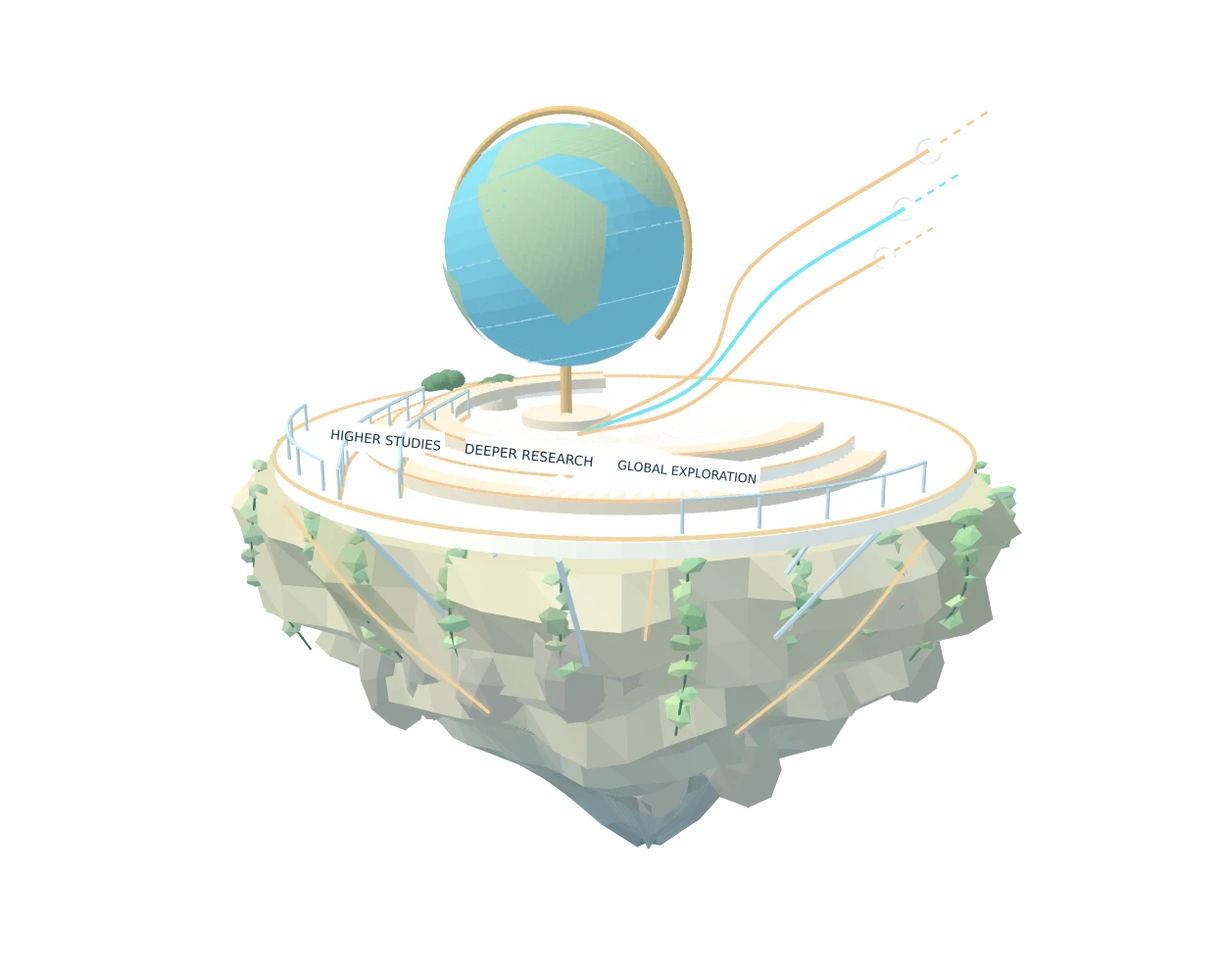
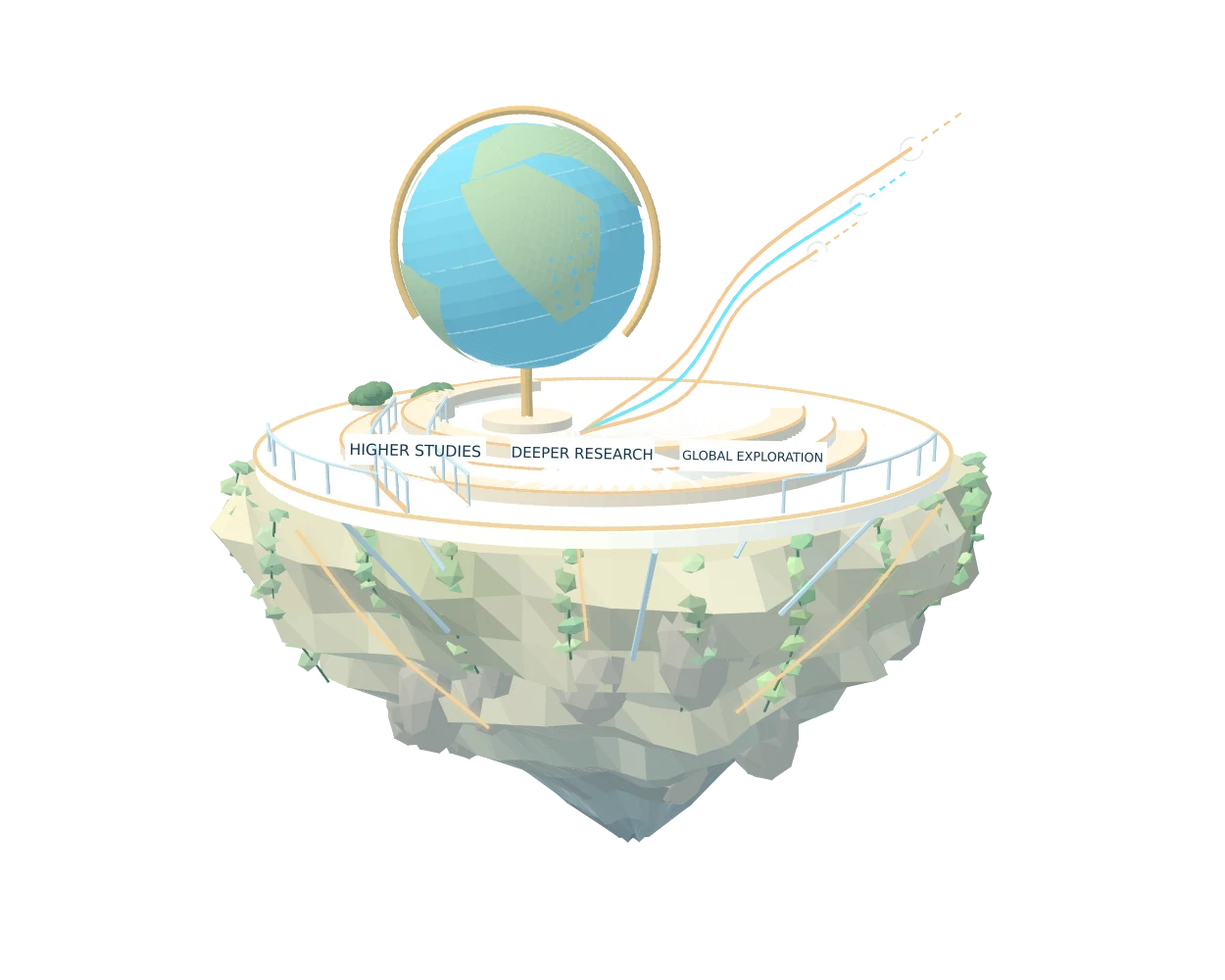
Refine world arrivals, cinematic travel, and inspection controls

Changed region(s): [[0.156, 0.093, 0.8424, 0.868], [0.7176, 0.155, 0.7488, 0.186]]

diff --git a/components/SkyScene.tsx b/components/SkyScene.tsx
@@ -9,8 +9,8 @@ import {createCloudTexture,buildSkyEnvironment} from './SkyEnvironment';
 import {buildSkyRoutes} from './SkyRoutes';
 import {batchWorld} from './SceneBatch';
 import {frameObjects} from './SceneFraming';
-import {captureView,syncOrbitView} from './CameraNavigation';
-type Props={reduced:boolean;active:string;inspect:boolean;onReady:()=>void;onFail:()=>void;onProject:(id:string)=>void;onWorld:(id:string)=>void};
+import {captureView,syncOrbitView,createCameraFlight} from './CameraNavigation';
+type Props={reduced:boolean;active:string;inspect:boolean;resetView:number;onTravel:(traveling:boolean)=>void;onReady:()=>void;onFail:()=>void;onProject:(id:string)=>void;onWorld:(id:string)=>void};
 export default function SkyScene(props:Props){
  const canvas=useRef<HTMLCanvasElement>(null),labels=useRef<HTMLDivElement>(null),current=useRef(props);current.current=props;
  useEffect(()=>{if(!canvas.current)return;let renderer:T.WebGLRenderer;try{renderer=new T.WebGLRenderer({canvas:canvas.current,alpha:true,antialias:true,powerPreference:'high-performance'});}catch{current.current.onFail();return;}
@@ -29,7 +29,7 @@ export default function SkyScene(props:Props){
  destinations.forEach((d,i)=>{
   const g=new T.Group();g.position.set(...d.p as [number,number,number]);g.userData={world:d.id,baseY:d.p[1]};scene.add(g);groups.push(g);clickables.push(g);
   buildFloatingFoundation(g,d.r,d.squash,i*110+4);
-  const built=builders[d.id](g);finishWorld(g,d.id,d.r);batchWorld(g,built);architectureAnimations.push(...built.animations);clickables.push(...built.exhibits);
+  const built=builders[d.id](g);finishWorld(g,d.id,d.r);batchWorld(g,built);architectureAnimations.push(...built.animations);
  });
  const transit=buildSkyRoutes(scene),atmosphere=buildSkyEnvironment(scene,createCloudTexture(),limited());
  function updateLighting(){
@@ -52,7 +52,7 @@ export default function SkyScene(props:Props){
  const frameCache=new Map<string,ReturnType<typeof frameObjects>>();
  function waypoint(){const id=current.current.active,key=id+':'+(rect.width/rect.height).toFixed(3);let view=frameCache.get(key);if(!view){view=frameObjects(id==='home'?groups:groups.filter(g=>g.userData.world===id),id,rect.width/rect.height);frameCache.set(key,view)}return view}
  const overview=waypoint();const target=new T.Vector3(overview.lx,overview.ly,overview.lz);syncOrbitView(camera,controls,overview);
- let dirty=true,lastWorld='',lastInspect=false;
+ let dirty=true,lastWorld='',lastInspect=false,lastReset=props.resetView,needsFraming=false;
  let markerObstacles:{left:number;top:number;right:number;bottom:number}[]=[];
  const measureToolbar=()=>{markerObstacles=Array.from(document.querySelectorAll('.scene-heading,.scene-controls,.scene-destinations')).map(el=>{const r=el.getBoundingClientRect();return {left:r.left-rect.left-8,top:r.top-rect.top-8,right:r.right-rect.left+8,bottom:r.bottom-rect.top+8}})};
  let scrollTween:gsap.core.Tween|undefined;
@@ -64,38 +64,48 @@ export default function SkyScene(props:Props){
   el.append(number,name);el.setAttribute('aria-label',`Visit ${d.short}: ${d.name}`);el.onclick=()=>current.current.onWorld(d.id);labels.current?.appendChild(el);return el;
  });
 
- let pointerX=0,pointerY=0;
- const onPointer=(e:PointerEvent)=>{pointerX=((e.clientX-rect.left)/rect.width-.5)*.45;pointerY=((e.clientY-rect.top)/rect.height-.5)*.2};
+ let pointerX=0,pointerY=0,desiredX=0,desiredY=0,hoverX=0,hoverY=0,hoverPending=false,pointerInside=false;
+ const onPointer=(e:PointerEvent)=>{pointerInside=true;hoverX=e.clientX;hoverY=e.clientY;hoverPending=true;if(e.pointerType!=='touch'){desiredX=((e.clientX-rect.left)/rect.width-.5)*.45;desiredY=((e.clientY-rect.top)/rect.height-.5)*.2}dirty=true};
+ const onLeave=()=>{pointerInside=false;desiredX=desiredY=0;canvas.current!.style.cursor='';dirty=true};
+ canvas.current.addEventListener('pointerleave',onLeave);
  canvas.current.addEventListener('pointermove',onPointer,{passive:true});
  const ray=new T.Raycaster(),ndc=new T.Vector2();let startX=0,startY=0;
  const onDown=(e:PointerEvent)=>{startX=e.clientX;startY=e.clientY};
- const onClick=(e:MouseEvent)=>{
-  if(Math.hypot(e.clientX-startX,e.clientY-startY)>6)return;
-  ndc.set((e.clientX-rect.left)/rect.width*2-1,-(e.clientY-rect.top)/rect.height*2+1);ray.setFromCamera(ndc,camera);
+ function pick(x:number,y:number){
+  ndc.set((x-rect.left)/rect.width*2-1,-(y-rect.top)/rect.height*2+1);ray.setFromCamera(ndc,camera);
   const hit=ray.intersectObjects(clickables,true).find(hit=>{let p:T.Object3D|null=hit.object;while(p){if(!p.visible)return false;p=p.parent}return true});
-  if(hit){let o:T.Object3D|null=hit.object;while(o&&!o.userData.project&&!o.userData.world)o=o.parent;if(o?.userData.project)current.current.onProject(o.userData.project);else if(o?.userData.world&&current.current.active==='home')current.current.onWorld(o.userData.world)}
+  let object:T.Object3D|null=hit?.object??null;while(object&&!object.userData.project&&!object.userData.world)object=object.parent;
+  return object?.userData.project?{project:object.userData.project}:object?.userData.world&&current.current.active==='home'?{world:object.userData.world}:null;
+ }
+ const onClick=(e:MouseEvent)=>{
+  if(Math.hypot(e.clientX-startX,e.clientY-startY)>6||scrollTween?.isActive())return;
+  const hit=pick(e.clientX,e.clientY);if(hit?.project)current.current.onProject(hit.project);else if(hit?.world)current.current.onWorld(hit.world);
  };
  canvas.current.addEventListener('pointerdown',onDown);canvas.current.addEventListener('click',onClick);
  let raf=0,last=0,elapsed=0,lastReduced=false;const v=new T.Vector3(),clock=new T.Clock();
  const wake=()=>{dirty=true};controls.addEventListener('change',wake);
- const onOrbitStart=()=>{scrollTween?.kill();dirty=true};controls.addEventListener('start',onOrbitStart);
+ const onOrbitStart=()=>{scrollTween?.kill();current.current.onTravel(false);dirty=true};controls.addEventListener('start',onOrbitStart);
  function frame(time:number){
   raf=requestAnimationFrame(frame);
   if(document.hidden||time-last<1000/(limited()?30:45))return;
   const dt=Math.min(clock.getDelta(),.05);last=time;
   const reduced=current.current.reduced;
   const world=current.current.active,inspect=current.current.inspect;
-  if(world!==lastWorld||inspect!==lastInspect){
+  if(world!==lastWorld||inspect!==lastInspect||lastReset!==current.current.resetView||needsFraming){
    rect=viewport();camera.aspect=rect.width/rect.height;camera.updateProjectionMatrix();renderer.setSize(rect.width,rect.height,false);
-   measureToolbar();updateLighting();scrollTween?.kill();const next=waypoint();
-   const origin=captureView(camera,lastInspect?controls.target:target);if(!inspect&&!reduced){origin.x-=pointerX;origin.y-=pointerY}Object.assign(flight,origin);
-   if(reduced||!reportedReady){Object.assign(flight,next);syncOrbitView(camera,controls,next)}
-   else{syncOrbitView(camera,controls,origin);scrollTween=gsap.to(flight,{...next,duration:1.1,ease:'power2.inOut',onUpdate:wake})}
-   controls.enabled=inspect;canvas.current!.style.touchAction=inspect?'none':'pan-y';lastWorld=world;lastInspect=inspect;dirty=true;
+   measureToolbar();updateLighting();scrollTween?.kill();const next={...waypoint()};
+   const origin=captureView(camera,lastInspect?controls.target:target);pointerX=pointerY=desiredX=desiredY=0;Object.assign(flight,origin);
+   const enteringInspection=inspect&&!lastInspect&&world===lastWorld&&!needsFraming&&lastReset===current.current.resetView;
+   if(enteringInspection)Object.assign(next,origin);
+   const sameView=Object.keys(next).every(key=>Math.abs(next[key as keyof typeof next]-origin[key as keyof typeof origin])<.001);
+   if(reduced||!reportedReady||enteringInspection||sameView){Object.assign(flight,next);syncOrbitView(camera,controls,next);current.current.onTravel(false)}
+   else{syncOrbitView(camera,controls,origin);const route=createCameraFlight(origin,next),progress={value:0};current.current.onTravel(true);scrollTween=gsap.to(progress,{value:1,duration:route.duration,ease:'power2.inOut',onUpdate:()=>{Object.assign(flight,route.sample(progress.value));wake()},onComplete:()=>{Object.assign(flight,next);if(inspect)syncOrbitView(camera,controls,next);hoverPending=true;current.current.onTravel(false);wake()}})}
+   controls.enabled=inspect;canvas.current!.style.touchAction=inspect?'none':'pan-y';lastWorld=world;lastInspect=inspect;lastReset=current.current.resetView;needsFraming=false;dirty=true;
   }
-  if(reduced!==lastReduced){if(reduced){const next=inspect&&!scrollTween?.isActive()?captureView(camera,controls.target):waypoint();scrollTween?.kill();Object.assign(flight,next);syncOrbitView(camera,controls,flight)}dirty=true;lastReduced=reduced}
+  if(reduced!==lastReduced){if(reduced){const next=inspect&&!scrollTween?.isActive()?captureView(camera,controls.target):waypoint();scrollTween?.kill();Object.assign(flight,next);pointerX=pointerY=desiredX=desiredY=0;syncOrbitView(camera,controls,flight);current.current.onTravel(false)}dirty=true;lastReduced=reduced}
   if(reduced&&!dirty)return;
   if(!reduced)elapsed+=dt;
+  const parallax=1-Math.exp(-dt*7),canParallax=!reduced&&!inspect&&!scrollTween?.isActive();pointerX+=((canParallax?desiredX:0)-pointerX)*parallax;pointerY+=((canParallax?desiredY:0)-pointerY)*parallax;
   if(inspect){if(scrollTween?.isActive()){camera.position.set(flight.x,flight.y,flight.z);controls.target.set(flight.lx,flight.ly,flight.lz)}controls.update();}
   else{camera.position.set(flight.x+(reduced?0:pointerX),flight.y+(reduced?0:pointerY),flight.z);target.set(flight.lx,flight.ly,flight.lz);camera.lookAt(target);}
   // Follow the actual camera distance so haze never jumps at a chapter boundary.
@@ -103,7 +113,9 @@ export default function SkyScene(props:Props){
   groups.forEach((g,i)=>{g.position.y=g.userData.baseY+(reduced?0:Math.sin(elapsed*.35+i)*.07)});
   if(!reduced)architectureAnimations.forEach(a=>a.object.rotation[a.axis]+=dt*a.speed);
   atmosphere.update(elapsed,reduced);transit.update(elapsed,reduced);
-  try{renderer.render(scene,camera)}catch{current.current.onFail();return}dirty=false;if(!reportedReady){reportedReady=true;current.current.onReady()}
+  try{renderer.render(scene,camera)}catch{current.current.onFail();return}dirty=false;
+  if(pointerInside&&(hoverPending||scrollTween?.isActive())){canvas.current!.style.cursor=scrollTween?.isActive()?'':pick(hoverX,hoverY)?'pointer':'';hoverPending=false}
+  if(!reportedReady){reportedReady=true;current.current.onReady()}
   const markers=placeMarkers(destinations.map((d,i)=>{
    groups[i].localToWorld(v.set(0,-d.r*.18,d.r*d.squash*.88)).project(camera);
    return {x:Math.max(!inspect&&!mobile?rect.width*.12:25,(v.x*.5+.5)*rect.width),y:(-v.y*.5+.5)*rect.height,visible:world==='home'&&v.z>-1&&v.z<1&&Math.abs(v.x)<.96&&Math.abs(v.y)<.92};
@@ -114,13 +126,13 @@ export default function SkyScene(props:Props){
   });
 
  }
- const resize=()=>{mobile=innerWidth<=960;rect=viewport();camera.aspect=rect.width/rect.height;camera.updateProjectionMatrix();renderer.setPixelRatio(Math.min(devicePixelRatio,limited()?1.25:1.65));renderer.setSize(rect.width,rect.height,false);atmosphere.setLimited(limited());updateLighting();lastWorld='';dirty=true};
+ const resize=()=>{mobile=innerWidth<=960;rect=viewport();camera.aspect=rect.width/rect.height;camera.updateProjectionMatrix();renderer.setPixelRatio(Math.min(devicePixelRatio,limited()?1.25:1.65));renderer.setSize(rect.width,rect.height,false);atmosphere.setLimited(limited());updateLighting();measureToolbar();if(!current.current.inspect)needsFraming=true;dirty=true};
  window.addEventListener('resize',resize);const canvasNode=canvas.current;
  const ro=new ResizeObserver(resize);ro.observe(canvasNode);
  const toolbarObserver=new ResizeObserver(()=>{measureToolbar();dirty=true});const toolbar=document.querySelector('.scene-tools');if(toolbar)toolbarObserver.observe(toolbar);
  const contextLost=(e:Event)=>{e.preventDefault();current.current.onFail()};
  canvasNode.addEventListener('webglcontextlost',contextLost);raf=requestAnimationFrame(frame);
- return()=>{alive=false;cancelAnimationFrame(raf);scrollTween?.kill();ro.disconnect();toolbarObserver.disconnect();controls.removeEventListener('change',wake);controls.removeEventListener('start',onOrbitStart);controls.dispose();window.removeEventListener('resize',resize);canvasNode.removeEventListener('pointermove',onPointer);canvasNode.removeEventListener('pointerdown',onDown);canvasNode.removeEventListener('click',onClick);canvasNode.removeEventListener('webglcontextlost',contextLost);labelElements.forEach(e=>e.remove());
+ return()=>{alive=false;cancelAnimationFrame(raf);scrollTween?.kill();ro.disconnect();toolbarObserver.disconnect();controls.removeEventListener('change',wake);controls.removeEventListener('start',onOrbitStart);controls.dispose();window.removeEventListener('resize',resize);canvasNode.removeEventListener('pointermove',onPointer);canvasNode.removeEventListener('pointerleave',onLeave);canvasNode.removeEventListener('pointerdown',onDown);canvasNode.removeEventListener('click',onClick);canvasNode.removeEventListener('webglcontextlost',contextLost);labelElements.forEach(e=>e.remove());
  const geometries=new Set<T.BufferGeometry>(),materials=new Set<T.Material>(),textures=new Set<T.Texture>();
  scene.traverse(o=>{if(o instanceof T.Mesh||o instanceof T.Line||o instanceof T.Sprite){if('geometry'in o)geometries.add(o.geometry);(Array.isArray(o.material)?o.material:[o.material]).forEach(m=>{materials.add(m);if('map'in m&&m.map instanceof T.Texture)textures.add(m.map)})}});
  geometries.forEach(g=>g.dispose());materials.forEach(m=>m.dispose());textures.forEach(t=>t.dispose());skyReflection.dispose();sunlight.shadow.dispose();renderer.dispose();};

diff --git a/components/Portfolio.tsx b/components/Portfolio.tsx
@@ -1,5 +1,5 @@
 'use client';
-import {useCallback,useEffect,useRef,useState} from 'react';
+import {useCallback,useEffect,useRef,useState,type MouseEvent} from 'react';
 import dynamic from 'next/dynamic';
 import SceneBoundary from './SceneBoundary';
 import PortfolioSections,{ProjectDetails} from './PortfolioSections';
@@ -9,23 +9,43 @@ import {projects,type PortfolioProject} from '../data/portfolio';
 const SkyScene=dynamic(()=>import('./SkyScene'),{ssr:false});
 export default function Portfolio(){
  const [active,setActive]=useState(0),[reduced,setReduced]=useState(false),[menu,setMenu]=useState(false),[selected,setSelected]=useState<PortfolioProject|null>(null),[ready,setReady]=useState(false),[failed,setFailed]=useState(false),[inspect,setInspect]=useState(false);
- const dialog=useRef<HTMLDialogElement>(null),opener=useRef<HTMLElement|null>(null),menuButton=useRef<HTMLButtonElement>(null),menuPanel=useRef<HTMLElement>(null);
+ const [traveling,setTraveling]=useState(false),[resetView,setResetView]=useState(0);
+ const dialog=useRef<HTMLDialogElement>(null),opener=useRef<HTMLElement|null>(null),menuButton=useRef<HTMLButtonElement>(null),menuPanel=useRef<HTMLElement>(null),menuOpener=useRef<HTMLElement|null>(null);
+ const go=useCallback((id:string,keepInspect=false,focus=true,record=true)=>{
+  const index=worlds.findIndex(w=>w[0]===id),section=document.getElementById(id);if(index<0||!section)return;
+  setActive(index);setMenu(false);if(!keepInspect)setInspect(false);
+  // Move the document once; only the camera animates between distant destinations.
+  section.scrollIntoView({behavior:'instant'});
+  if(record&&location.hash!==`#${id}`)history.pushState(null,'',`#${id}`);
+  if(focus&&!keepInspect)section.focus({preventScroll:true});
+ },[]);
  useEffect(()=>{
   const preference=matchMedia('(prefers-reduced-motion: reduce)');setReduced(preference.matches);
   const update=()=>setReduced(preference.matches);preference.addEventListener('change',update);return()=>preference.removeEventListener('change',update);
  },[]);
  useEffect(()=>{
-  const observer=new IntersectionObserver(entries=>{entries.forEach(entry=>{if(!entry.isIntersecting)return;const id=entry.target.closest('.chapter')?.id,index=worlds.findIndex(w=>w[0]===id);if(index>=0)setActive(index)})},{rootMargin:'-16% 0px -38% 0px',threshold:0});
-  document.querySelectorAll('.reading-panel').forEach(panel=>observer.observe(panel));return()=>observer.disconnect();
- },[]);
+  const restore=()=>{const id=location.hash.slice(1)||'home';if(worlds.some(w=>w[0]===id))go(id,false,false,false)};
+  restore();window.addEventListener('hashchange',restore);return()=>window.removeEventListener('hashchange',restore);
+ },[go]);
+ useEffect(()=>{
+  if(inspect)return;let frame=0;
+  const panels=Array.from(document.querySelectorAll<HTMLElement>('.chapter'));
+  const update=()=>{frame=0;let index=0;panels.forEach((panel,i)=>{if(panel.getBoundingClientRect().top<=innerHeight*.25)index=i});setActive(index)};
+  const schedule=()=>{if(!frame)frame=requestAnimationFrame(update)};
+  schedule();window.addEventListener('scroll',schedule,{passive:true});window.addEventListener('resize',schedule);
+  return()=>{cancelAnimationFrame(frame);window.removeEventListener('scroll',schedule);window.removeEventListener('resize',schedule)};
+ },[inspect]);
  useEffect(()=>{
   if(!selected){dialog.current?.close();return}
-  const previousOverflow=document.body.style.overflow;if(!dialog.current?.open)dialog.current?.showModal();document.body.style.overflow='hidden';return()=>{document.body.style.overflow=previousOverflow};
+  if(!dialog.current?.open)dialog.current?.showModal();
  },[selected]);
+ useEffect(()=>{
+  if(!inspect&&!selected)return;const previous=document.body.style.overflow;document.body.style.overflow='hidden';return()=>{document.body.style.overflow=previous};
+ },[inspect,selected]);
  useEffect(()=>{
   if(!menu)return;
   const frame=requestAnimationFrame(()=>menuPanel.current?.querySelector('a')?.focus());
-  const key=(event:KeyboardEvent)=>{if(event.key==='Escape'){setMenu(false);menuButton.current?.focus()}};
+  const key=(event:KeyboardEvent)=>{if(event.key==='Escape'){setMenu(false);(menuOpener.current??menuButton.current)?.focus()}};
   const outside=(event:PointerEvent)=>{const target=event.target as Element;if(!menuPanel.current?.contains(target)&&!target.closest('[aria-controls="world-menu"]'))setMenu(false)};
   document.addEventListener('keydown',key);document.addEventListener('pointerdown',outside);
   return()=>{cancelAnimationFrame(frame);document.removeEventListener('keydown',key);document.removeEventListener('pointerdown',outside)};
@@ -38,20 +58,25 @@ export default function Portfolio(){
   opener.current=document.activeElement instanceof HTMLElement&&document.activeElement!==document.body?document.activeElement:document.querySelector<HTMLElement>('.scene-explore');setSelected(project);
  },[]);
  function closeProject(){dialog.current?.close();setSelected(null);opener.current?.focus({preventScroll:true})}
- function go(id:string){document.getElementById(id)?.scrollIntoView({behavior:reduced?'instant':'smooth'});setMenu(false)}
- function readPortfolio(){setInspect(false);setMenu(false)}
- function sceneFailure(){setReady(true);setFailed(true);setInspect(false)}
+ function navigate(event:MouseEvent<HTMLDivElement>){
+  if(event.defaultPrevented||event.button!==0||event.metaKey||event.ctrlKey||event.shiftKey||event.altKey)return;
+  const anchor=(event.target as Element).closest<HTMLAnchorElement>('a[href^="#"]');if(!anchor||anchor.target||anchor.hasAttribute('download'))return;
+  const id=anchor.getAttribute('href')!.slice(1);if(!worlds.some(w=>w[0]===id))return;
+  event.preventDefault();go(id);
+ }
+ function toggleMenu(){if(!menu)menuOpener.current=document.activeElement instanceof HTMLElement?document.activeElement:null;setMenu(value=>!value)}
+ function sceneFailure(){setReady(true);setFailed(true);setInspect(false);setTraveling(false)}
  const world=worlds[active]?.[0]??'home';
- return <div className={`portfolio${reduced?' reduced':''}${failed?' webgl-fallback':''}${inspect?' inspecting':''}`} data-world={world} data-ready={ready&&!failed?'true':'false'}>
-  <a className="skip" href="#projects" onClick={readPortfolio}>Skip to selected projects</a>
+ return <div className={`portfolio${reduced?' reduced':''}${failed?' webgl-fallback':''}${inspect?' inspecting':''}`} data-world={world} data-ready={ready&&!failed?'true':'false'} onClick={navigate}>
+  <a className="skip" href="#projects">Skip to selected projects</a>
   <div className="sky-backdrop" aria-hidden="true"/>
   {(!ready||failed)&&<img className="world-still" src={`/${active===0?'overview':world}-world.webp`} alt="" aria-hidden="true"/>}
-  {!failed&&<SceneBoundary onFail={sceneFailure}><SkyScene active={world} inspect={inspect} reduced={reduced} onReady={()=>setReady(true)} onFail={sceneFailure} onProject={openProject} onWorld={go}/></SceneBoundary>}
+  {!failed&&<SceneBoundary onFail={sceneFailure}><SkyScene active={world} inspect={inspect} resetView={resetView} reduced={reduced} onTravel={setTraveling} onReady={()=>setReady(true)} onFail={sceneFailure} onProject={openProject} onWorld={id=>go(id,inspect,!inspect)}/></SceneBoundary>}
   <div className="reading-shade" aria-hidden="true"/>
-  <PortfolioHeader active={active} menu={menu} onMenu={()=>setMenu(value=>!value)} onRead={readPortfolio} reduced={reduced} onMotion={()=>setReduced(value=>!value)} buttonRef={menuButton} menuRef={menuPanel}/>
-  <SceneTools active={world} ready={ready} failed={failed} inspect={inspect} onInspect={()=>{setMenu(false);setInspect(value=>!value)}} onWorld={go}/>
+  <PortfolioHeader active={active} menu={menu} onMenu={toggleMenu} reduced={reduced} onMotion={()=>setReduced(value=>!value)} buttonRef={menuButton} menuRef={menuPanel}/>
+  <SceneTools active={world} ready={ready} failed={failed} inspect={inspect} traveling={traveling} onReset={()=>setResetView(value=>value+1)} onInspect={()=>{setMenu(false);setInspect(value=>!value)}} onWorld={id=>go(id,true,false)}/>
   <PortfolioSections onProject={openProject}/>
-  <PortfolioFooter active={active} ready={ready} reduced={reduced} onMotion={()=>setReduced(value=>!value)} onMenu={()=>setMenu(value=>!value)} menu={menu}/>
+  <PortfolioFooter active={active} ready={ready} reduced={reduced} onMotion={()=>setReduced(value=>!value)} onMenu={toggleMenu} menu={menu}/>
   <ProjectDetails project={selected} dialogRef={dialog} onClose={closeProject}/>
  </div>;
 }

diff --git a/components/PortfolioNavigation.tsx b/components/PortfolioNavigation.tsx
@@ -2,15 +2,15 @@ import type {RefObject} from 'react';
 
 export const worlds=[['home','Overview'],['psychology','Psychology'],['ai','AI'],['projects','Projects'],['culture','Culture'],['hackathons','Hackathons'],['research','Research'],['technology','Technology'],['future','Future']] as const;
 const sceneNames:Record<string,[string,string]>={home:['The Mind Atlas','Eight worlds of connected curiosity'],psychology:['The Mind Garden','Psychology'],ai:['Intelligence Nexus','Artificial intelligence'],projects:['The Project Atelier','Selected projects'],culture:['Cultural Crossroads','Culture'],hackathons:['The Invention Yard','Hackathons'],research:['The Observatory','Research'],technology:['The Systems Nexus','Technology'],future:['The Open Horizon','Next chapter']};
-type MenuProps={active:number;menu:boolean;onMenu:()=>void;onRead:()=>void;reduced:boolean;onMotion:()=>void;buttonRef:RefObject<HTMLButtonElement|null>;menuRef:RefObject<HTMLElement|null>};
+type MenuProps={active:number;menu:boolean;onMenu:()=>void;reduced:boolean;onMotion:()=>void;buttonRef:RefObject<HTMLButtonElement|null>;menuRef:RefObject<HTMLElement|null>};
 
-export function PortfolioHeader({active,menu,onMenu,onRead,reduced,onMotion,buttonRef,menuRef}:MenuProps){
+export function PortfolioHeader({active,menu,onMenu,reduced,onMotion,buttonRef,menuRef}:MenuProps){
  return <header className="header">
-  <a className="brand" href="#home" onClick={onRead} aria-label="Mind Atlas, Monasri’s portfolio overview"><svg className="brand-symbol" viewBox="0 0 48 48" aria-hidden="true"><circle cx="24" cy="24" r="13"/><ellipse cx="24" cy="24" rx="23" ry="7" transform="rotate(-28 24 24)"/><circle className="orbit-point" cx="43" cy="14" r="3"/></svg><span>MIND ATLAS<span className="brand-small">MONASRI</span></span></a>
-  <nav className="professional-nav" aria-label="Main navigation"><a href="#projects" onClick={onRead}>Projects</a><a href="#psychology" onClick={onRead}>About</a><a href="#research" onClick={onRead}>Research</a><a href="#future" onClick={onRead}>Contact <span aria-hidden="true">↗</span></a></nav>
+  <a className="brand" href="#home" aria-label="Mind Atlas, Monasri’s portfolio overview"><svg className="brand-symbol" viewBox="0 0 48 48" aria-hidden="true"><circle cx="24" cy="24" r="13"/><ellipse cx="24" cy="24" rx="23" ry="7" transform="rotate(-28 24 24)"/><circle className="orbit-point" cx="43" cy="14" r="3"/></svg><span>MIND ATLAS<span className="brand-small">MONASRI</span></span></a>
+  <nav className="professional-nav" aria-label="Main navigation"><a href="#projects">Projects</a><a href="#psychology">About</a><a href="#research">Research</a><a href="#future">Contact <span aria-hidden="true">↗</span></a></nav>
   <button ref={buttonRef} className="menu-button" onClick={onMenu} aria-expanded={menu} aria-controls="world-menu"><span className="menu-desktop-label">{menu?'Close':'Worlds'}</span><span className="menu-mobile-label">{menu?'Close':'Menu'}</span><span aria-hidden="true">{menu?'×':'☰'}</span></button>
   <nav ref={menuRef} id="world-menu" hidden={!menu} className="world-menu" aria-label="All worlds and profile links">
-   <p className="content-label">Choose a world</p><div className="world-menu-links">{worlds.map(([id,label],i)=><a key={id} href={`#${id}`} onClick={onRead} aria-current={active===i?'location':undefined}><span className="menu-number" aria-hidden="true">{String(i).padStart(2,'0')}</span><span>{label}</span><span aria-hidden="true">↗</span></a>)}</div>
+   <p className="content-label">Choose a world</p><div className="world-menu-links">{worlds.map(([id,label],i)=><a key={id} href={`#${id}`} aria-current={active===i?'location':undefined}><span className="menu-number" aria-hidden="true">{String(i).padStart(2,'0')}</span><span>{label}</span><span aria-hidden="true">↗</span></a>)}</div>
    <div className="menu-profiles"><a href="https://www.linkedin.com/in/kundeti-monasri-3650ba326" target="_blank" rel="noopener noreferrer">LinkedIn ↗</a><a href="https://github.com/Monasri29-hub" target="_blank" rel="noopener noreferrer">GitHub ↗</a></div>
    <button className="menu-motion" onClick={onMotion} aria-pressed={reduced}>Reduce motion <span>{reduced?'On':'Off'}</span></button>
   </nav>
@@ -31,11 +31,12 @@ export function PortfolioFooter({active,reduced,onMotion,onMenu,menu,ready}:{act
  </footer>;
 }
 
-export function SceneTools({active,ready,failed,inspect,onInspect,onWorld}:{active:string;ready:boolean;failed:boolean;inspect:boolean;onInspect:()=>void;onWorld:(id:string)=>void}){
+export function SceneTools({active,ready,failed,inspect,traveling,onReset,onInspect,onWorld}:{active:string;ready:boolean;failed:boolean;inspect:boolean;traveling:boolean;onReset:()=>void;onInspect:()=>void;onWorld:(id:string)=>void}){
  const name=sceneNames[active]??sceneNames.home,index=worlds.findIndex(w=>w[0]===active);
  return <aside className="scene-tools" aria-label={`3D controls: ${name[0]}`}>
-  <div className="scene-heading"><span className="scene-kicker">{failed?'ILLUSTRATED VIEW':!ready?'LOADING WORLD':active==='home'?'08 WORLDS · ONE ATLAS':`${String(index).padStart(2,'0')} / 08`}</span><span className="scene-location">{active==='home'?'The Mind Atlas':name[1]}</span></div>
-  <div className="scene-controls">{!failed&&<button className="scene-explore" onClick={onInspect} disabled={!ready} aria-busy={!ready} aria-pressed={inspect}>{!ready?'Loading 3D…':inspect?'← Return to portfolio':'Explore in 3D ↗'}</button>}{inspect&&<p className="scene-instructions">Drag to orbit · Pinch or scroll to zoom · Esc to return</p>}</div>
+  <div className="scene-heading" data-traveling={traveling}><span className="scene-kicker">{failed?'ILLUSTRATED VIEW':!ready?'LOADING WORLD':traveling?'TRAVELLING':active==='home'?'08 WORLDS · ONE ATLAS':`${String(index).padStart(2,'0')} / 08`}</span><span className="scene-location">{active==='home'?'The Mind Atlas':name[1]}</span></div>
+  <div className="scene-controls">{!failed&&<button className="scene-explore" onClick={onInspect} disabled={!ready} aria-busy={!ready} aria-pressed={inspect}>{!ready?'Loading 3D…':inspect?'← Return to portfolio':'Explore in 3D ↗'}</button>}{inspect&&<button className="scene-reset" onClick={onReset}>Reset view <span aria-hidden="true">↺</span></button>}{inspect&&<p className="scene-instructions">Drag to orbit · Pinch or scroll to zoom · Esc to return</p>}</div>
+  <span className="sr-only" role="status" aria-live="polite" aria-atomic="true">{ready&&!failed?(traveling?`Travelling to ${name[0]}.`:`${name[0]} ready.`):''}</span>
   {active==='home'&&!inspect&&!failed&&ready&&<p className="scene-hint">Choose a numbered island, or scroll to explore.</p>}
   {inspect&&<nav className="scene-destinations" aria-label="Travel between all eight worlds">{worlds.map(([id,label])=><button key={id} aria-pressed={active===id} onClick={()=>onWorld(id)}>{label}</button>)}</nav>}
   {failed&&<p className="scene-fallback-note">3D is unavailable here. Use the world navigation to explore the portfolio.</p>}

diff --git a/components/CameraNavigation.ts b/components/CameraNavigation.ts
@@ -1,7 +1,25 @@
-import type {PerspectiveCamera,Vector3} from 'three';
+import {Quaternion,Vector3,type PerspectiveCamera} from 'three';
 import type {OrbitControls} from 'three/examples/jsm/controls/OrbitControls.js';
 
 export type CameraView={x:number;y:number;z:number;lx:number;ly:number;lz:number};
+
+/** Rotate the viewing arm while translating its pivot: never fly through the pivot. */
+export function createCameraFlight(from:CameraView,to:CameraView){
+ const start=new Vector3(from.lx,from.ly,from.lz),end=new Vector3(to.lx,to.ly,to.lz);
+ const arm=new Vector3(from.x,from.y,from.z).sub(start),finish=new Vector3(to.x,to.y,to.z).sub(end);
+ const radius=arm.length(),endRadius=finish.length(),direction=arm.normalize();
+ const rotation=new Quaternion().setFromUnitVectors(direction,finish.normalize());
+ const orientation=new Quaternion(),pivot=new Vector3(),eye=new Vector3();
+ const distance=new Vector3(from.x,from.y,from.z).distanceTo(new Vector3(to.x,to.y,to.z));
+ return {duration:Math.min(1.5,Math.max(.65,.65+distance*.008)),sample(progress:number):CameraView{
+  const t=Math.max(0,Math.min(1,progress));
+  if(t===0)return {...from};if(t===1)return {...to};
+  pivot.lerpVectors(start,end,t);orientation.identity().slerp(rotation,t);
+  const length=radius+(endRadius-radius)*t+Math.sin(Math.PI*t)*Math.min(6,distance*.06);
+  eye.copy(direction).applyQuaternion(orientation).multiplyScalar(length).add(pivot);
+  return {x:eye.x,y:eye.y,z:eye.z,lx:pivot.x,ly:pivot.y,lz:pivot.z};
+ }};
+}
 
 /** Begin a new flight at the actual inspected camera, not its old preset. */
 export function captureView(camera:PerspectiveCamera,target:Vector3):CameraView{

diff --git a/app/globals.css b/app/globals.css
@@ -162,6 +162,10 @@ button:disabled{cursor:wait}
 .scene-controls{display:flex;align-items:center;justify-content:flex-end;gap:8px;flex-wrap:wrap;pointer-events:auto}
 .scene-explore{min-height:44px;padding:10px 14px;background:var(--ink);color:white;border:1px solid var(--ink);border-radius:10px;font-size:13px;font-weight:600}
 .scene-explore:hover{background:#234b5d}
+.scene-reset{min-height:44px;padding:10px 14px;background:var(--paper);color:var(--ink);border:1px solid #9aafb9;border-radius:10px;font-size:13px;font-weight:600}
+.scene-reset:hover{background:var(--world-soft)}
+.scene-heading[data-traveling=true]{border-color:var(--world-accent);box-shadow:0 0 0 3px var(--world-soft)}
+.sr-only{position:absolute;width:1px;height:1px;padding:0;margin:-1px;overflow:hidden;clip-path:inset(50%);white-space:nowrap;border:0}
 .scene-explore:disabled{background:var(--paper);color:var(--muted);border-color:#9dacb3;cursor:wait}
 .scene-hint,.scene-fallback-note,.scene-instructions{font-size:13px;line-height:1.5;color:var(--ink);padding:9px 12px;background:var(--paper);border:1px solid #c1cdd2;border-radius:9px;margin:0}
 .scene-hint{flex-basis:100%;margin-left:auto;text-align:right;max-width:max-content}

diff --git a/components/SceneFraming.ts b/components/SceneFraming.ts
@@ -3,7 +3,9 @@ import {SCENE_FOV} from './WorldCatalog.ts';
 
 /** Fit the actual geometry, including instances, instead of an oversized island box. */
 export function frameObjects(objects:T.Object3D[],id:string,aspect:number){
- const direction=new T.Vector3(...(id==='home'?[.16,.34,1]:[.43,.3,1]) as [number,number,number]).normalize();
+ // Keep each landmark's readable front, with a deliberate angle for its architecture.
+ const arrivals:Record<string,[number,number,number]>={home:[.16,.34,1],psychology:[.18,.22,1],ai:[.55,.34,1],projects:[.12,.48,1],culture:[-.32,.4,1],hackathons:[.6,.42,1],research:[-.24,.3,1],technology:[.55,.45,1],future:[.08,.26,1]};
+ const direction=new T.Vector3(...(arrivals[id]??arrivals.home)).normalize();
  const right=new T.Vector3().crossVectors(new T.Vector3(0,1,0),direction).normalize();
  const up=new T.Vector3().crossVectors(direction,right).normalize();
  const min=new T.Vector3(Infinity,Infinity,Infinity),max=new T.Vector3(-Infinity,-Infinity,-Infinity);

diff --git a/docs/Phase_5_Cinematic_Travel.md b/docs/Phase_5_Cinematic_Travel.md
@@ -1,0 +1,55 @@
+# Phase 5 — Cinematic travel and interaction
+
+Date: 17 October 2026
+
+## Outcome
+
+World travel has one destination at a time. A direct navigation link moves the document immediately to its content and animates the camera to that world. Ordinary page scrolling still changes worlds as chapters cross the upper quarter of the viewport. Visitors can read throughout a flight; there is no mandatory introduction or navigation delay.
+
+## Arrival direction
+
+The camera still fits actual geometry and instance transforms for the available scene aspect ratio. Each landmark now has a distinct front-facing arrival direction rather than sharing a single angle.
+
+| World | Arrival emphasis |
+| --- | --- |
+| Psychology | Shallow, almost frontal view of the mind silhouette |
+| AI | Oblique view separating the towers, core, and pipeline |
+| Projects | Elevated, almost frontal view across all five exhibit bays |
+| Culture | Left-hand approach across woven forms and the amphitheatre |
+| Hackathons | More angled, elevated view across the gantry and workstations |
+| Research | Quiet left-hand view of the observatory and knowledge atlas |
+| Technology | Elevated oblique view exposing the modular layers |
+| Future | Open, almost frontal view of Earth and the destination routes |
+
+The eight illustrated fallback views are regenerated from those camera presets. The overview composition is unchanged.
+
+## Movement and handoffs
+
+- GSAP eases a normalized flight progress value. The camera pivot translates while its viewing arm rotates and gently pulls back. This avoids a straight-line interpolation collapsing into the pivot when travelling from an inspected rear view.
+- Duration scales with distance, bounded between 0.65 and 1.5 seconds.
+- A new destination starts from the actual rendered camera and current pivot. Previous flights are cancelled, so rapid navigation retargets immediately.
+- Entering inspection preserves the current pose. Returning to the portfolio restores its fitted reading view.
+- Dragging interrupts an active inspection flight. Reset view returns to the current world's fitted arrival view.
+- Inspection holds document scrolling. Resizing updates the canvas and aspect ratio while preserving a manually inspected eye and pivot; reading mode refits its landmark.
+- Pointer parallax eases toward its target and settles when the pointer leaves. Touchable devices do not produce pointer parallax. Selectable 3D objects expose a pointer cursor, and clicks during flights are ignored to avoid selecting moving geometry accidentally.
+- Reduced motion uses immediate camera/pivot updates and disables environmental motion and parallax.
+
+## Navigation and feedback
+
+All existing internal destination anchors share one delegated navigation handler. Modified clicks, external links, and downloads keep their native behavior. Header, directory, footer, previous/next, and content links leave inspection and focus the destination section. Inspector destination buttons retain inspection. Direct travel records a URL fragment; fragment navigation and browser history restore the destination, including the initial overview URL.
+
+The scene heading shows a travelling state and a polite status announcement. The world directory returns focus to the actual opening control on Escape, including the mobile footer control. Project content and factual claims are unchanged. All five projects remain in one island.
+
+## Verification
+
+```bash
+npm run typecheck
+npm run verify:navigation
+npm run verify:worlds
+npm run verify:environment
+npm run build
+```
+
+The navigation suite covers 24 preset/orbit handoffs using real Three.js OrbitControls without a DOM element. Sixteen additional flight combinations include opposite viewing arms, exact endpoints, finite and continuous intermediate positions, pivot clearance, interrupted travel, and bounded duration. Geometry checks cover all eight arrival fits across three aspect ratios, project picking, and overview marker placement. Static HTML and component rendering checks cover the existing content and links.
+
+CPU-rendered fallback images verify silhouettes and composition, not WebGL material rendering. Browser focus, history behavior, touch gestures, actual camera motion, visual comfort, and GPU performance still require live browser/device review. Phase 6 addresses device-specific refinement and accessibility; Phase 7 verifies the complete integrated experience.

diff --git a/README.md b/README.md
@@ -78,6 +78,12 @@ Technology cards connect methods and tools to actual selected projects. Hackatho
 
 Static HTML and component-rendering checks cover nine sections, five cards and full case-study dialogs, valid headings and internal/ARIA references, named controls, profile links, and theme contrast. These checks do not constitute a full accessibility audit or live browser review. See [the Phase 4 implementation notes](docs/Phase_4_Readable_UI.md).
 
+### Phase 5 — cinematic travel and interaction
+
+Each world has a deliberate arrival angle fitted to its actual geometry. Direct links select their destination once, expose its content immediately, and animate the camera along a short eased route. Normal scrolling remains chapter-driven. Inspection preserves the current pose, supports reset view, and keeps its viewpoint during resize. Pointer movement eases gently; travelling feedback and reduced-motion handling keep navigation predictable.
+
+Camera checks cover preset/orbit handoffs, opposite viewing directions, flight continuity, interruption, and pivot clearance. Eight regenerated fallback views match the new arrivals. Live browser and device verification remains outstanding. See [the Phase 5 implementation notes](docs/Phase_5_Cinematic_Travel.md).
+
 | World | Visual identity | Portfolio focus |
 | --- | --- | --- |
 | Psychology | Neural forms, thought pathways, soft emotional light | Human behavior, cognition, and human-centered design |
